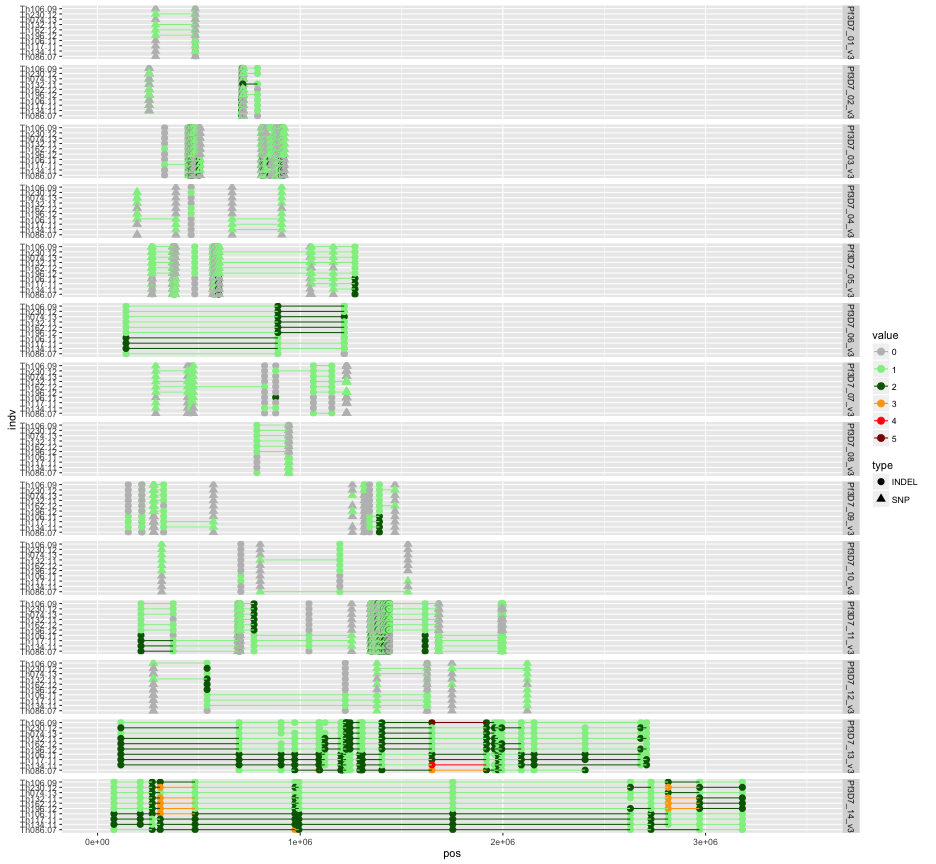
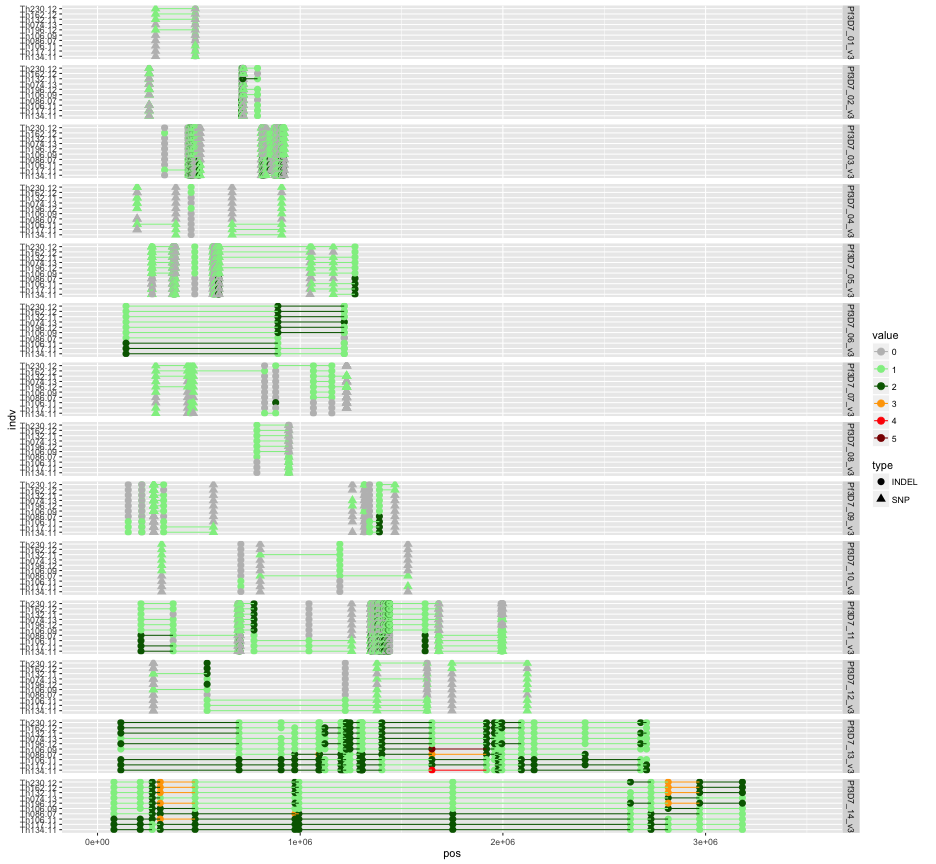
haplo plots thies / homoplasy

diff --git a/reports/160510_thies_haplo_plots_homoplasy/plotHaplotypes.md b/reports/160510_thies_haplo_plots_homoplasy/plotHaplotypes.md
@@ -11,12 +11,12 @@ opts_chunk$set(fig.width=13, fig.height=12)
 getGenoTab <- function(filename) {
   genotab <- read.table(filename,sep="\t",header=T,stringsAsFactors=F,na.strings=c('.','. '))
   genotab <- unique(genotab)
-  
+  genotab$I <- 1:length(genotab$chr)
   #remove ref calls
   #genotab <- genotab[rowSums(genotab[,5:dim(genotab)[2]],na.rm=T)!=0,]
   
   #colnames(genotab)[1:2]<-c("chr","pos")
-  genotab.m <- melt(genotab,id.vars =c("chr","pos","type","subtype","alleles"),variable.name ="indv")
+  genotab.m <- melt(genotab,id.vars =c("I","chr","pos","type","subtype","alleles"),variable.name ="indv")
   genotab.m$value <- as.factor(genotab.m$value)
   #sort levels
   genotab.m$indv <- factor(genotab.m$indv,levels=sort(levels(genotab.m$indv)))
@@ -43,15 +43,15 @@ getGenoTab <- function(filename) {
 
 
 ```r
-treeorder <- c("Th086.07","Th134.11","Th117.11","Th106.11","Th196.12","Th162.12","Th132.11","Th074.13","Th230.12","Th106.09")
+networkorder <- c("Th134.11","Th117.11","Th106.11","Th086.07","Th106.09","Th196.12","Th074.13","Th132.11","Th162.12","Th230.12")
 
 clade3F <- "Thies_all_manual.PASS.Cls.miss0.5.LMRG.HAP.DISCORDS.clade3.alleles.tab.txt"
 genotab3 <- getGenoTab(clade3F)
-genotab3$indv <- factor(genotab3$indv,levels = treeorder,ordered=T)
+genotab3$indv <- factor(genotab3$indv,levels = networkorder,ordered=T)
 
 clade3NS <- "Thies_all_manual.PASS.Cls.miss0.5.LMRG.HAP.DISCORDS.clade3.NOSNGL.alleles.tab.txt"
 genotab3NS <- getGenoTab(clade3NS)
-genotab3NS$indv <- factor(genotab3NS$indv,levels = treeorder,ordered=T)
+genotab3NS$indv <- factor(genotab3NS$indv,levels = networkorder,ordered=T)
 ```
 
 
@@ -135,3 +135,17 @@ ggplot(subset(genotab3NS,type=="INDEL"),aes(x=pos,y=indv,colour=value,group=hapl
 
 ![plot of chunk unnamed-chunk-5](figure/unnamed-chunk-5-3.png)
 
+
+```r
+#Clade3 NO SINGLETONS INDEXED
+
+#SNPs only
+ggplot(genotab3NS,aes(x=I,y=indv,colour=value,group=pos,shape=type)) + geom_point(alpha=0.6,size=3) + 
+  geom_line(data=subset(genotab3NS,value != 0)) + facet_grid(type ~ .)  +colsc
+```
+
+![plot of chunk unnamed-chunk-6](figure/unnamed-chunk-6-1.png)
+
+```r
+#INDELs only
+```
